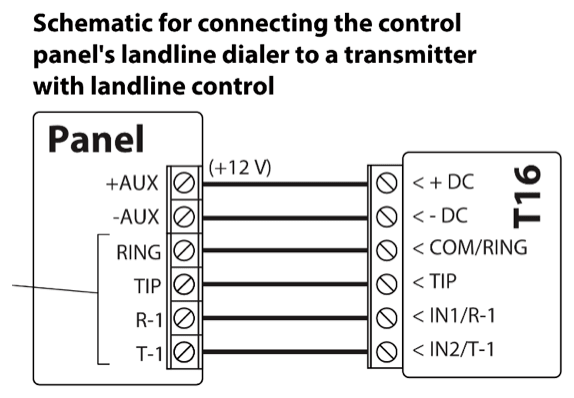
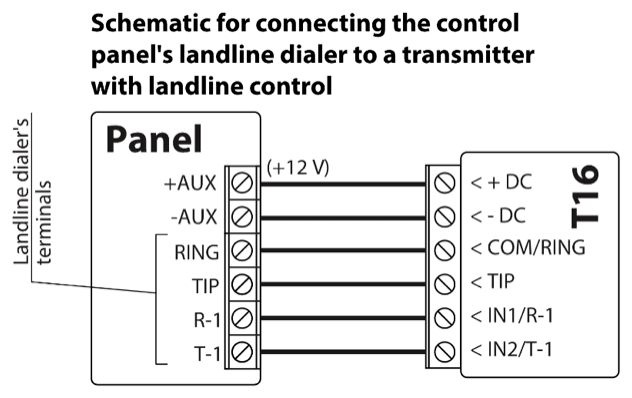
T16 (EN): cut the landline dialer pair between the two diagrams
The widest blank gap in that image is inside the second diagram, beside its rotated
'Landline dialer's terminals' label, so the label landed in the first piece. The spec now
cuts at x=570, between the two diagrams. The split script accepts such an explicit cut
and warns whenever more than one gap qualifies; the other five ambiguous cases were
checked and are right. Found by the alt-text review of #25.

Changed region(s): [[0.0, 0.2714, 0.5331, 0.995], [0.622, 0.3618, 0.9774, 0.9648], [0.0592, 0.0302, 0.8589, 0.2412]]

diff --git a/Scripts/split_wiring_diagrams.py b/Scripts/split_wiring_diagrams.py
@@ -14,7 +14,7 @@ Usage (repo root):  python3 Scripts/split_wiring_diagrams.py <spec.json> [--prev
   --preview writes the pieces to <dir> and leaves the page and its folder untouched.
 
 Spec: {"page": "...index.md", "heading_level": 4, "images": [ITEM, ...]}   (any ITEM may set its own heading_level)
-  Two side by side:   {"src": "image22.webp", "min_gap": 20,
+  Two side by side:   {"src": "image22.webp", "min_gap": 20,   ("x": 570 cuts at that column instead)
                        "left":  {"file": "wiring-dsc.webp", "heading": "DSC", "alt": "..."},
                        "right": {"file": "wiring-paradox.webp", "heading": "PARADOX", "alt": "..."}}
   Several, in rows:   {"src": "image23.webp", "rows": 2, "parts": [PIECE, ...]}   (row by row)
@@ -41,6 +41,7 @@ def gutter(img: Image.Image, min_gap: int = 20) -> int:
     w, h = g.size
     px = g.load()
     best = (0, 0)
+    gaps = []
     run_start = None
     for x in range(int(w * 0.3), int(w * 0.7) + 1):
         # Blank = (almost) no dark pixels; tolerates light compression noise in the gap.
@@ -48,11 +49,17 @@ def gutter(img: Image.Image, min_gap: int = 20) -> int:
         if blank and run_start is None:
             run_start = x
         if not blank and run_start is not None:
+            if x - run_start >= min_gap:
+                gaps.append((run_start, x))
             if x - run_start > best[1] - best[0]:
                 best = (run_start, x)
             run_start = None
     if best[1] - best[0] < min_gap:
         sys.exit("no clear gutter found")
+    if len(gaps) > 1:
+        # The widest gap can lie inside a diagram (e.g. beside a rotated label): look, or set "x".
+        print(f"  check the cut: {len(gaps)} gaps in the middle "
+              f"({', '.join(f'{a}-{b}' for a, b in gaps)}), cutting at {(best[0] + best[1]) // 2}", file=sys.stderr)
     return (best[0] + best[1]) // 2
 
 
@@ -93,7 +100,7 @@ def trim(img: Image.Image) -> Image.Image:
 def pieces(img: Image.Image, item: dict) -> list:
     """(target, image) for every diagram in a composite, row by row."""
     if "parts" not in item:
-        x = gutter(img, item.get("min_gap", 20))
+        x = item["x"] if "x" in item else gutter(img, item.get("min_gap", 20))
         return [(item["left"], trim(img.crop((0, 0, x, img.height)))),
                 (item["right"], trim(img.crop((x, 0, img.width, img.height))))]
     rows = item.get("rows", 1)

diff --git a/docs/en/alarm-communicators/t16/index.md b/docs/en/alarm-communicators/t16/index.md
@@ -254,11 +254,11 @@ The zones (inputs IN) of ***T16V,** **T16U, T16U5*** transmitters can be connect
 
 #### Without landline control
 
-<img class="wiring-diagram" alt="Wiring diagram: control panel landline dialer to T16. +AUX (+12 V) to + DC, -AUX to - DC, RING to COM/RING, TIP to TIP." src="./wiring-landline-dialer.webp" width="648" height="350" />
+<img class="wiring-diagram" alt="Wiring diagram: control panel landline dialer to T16. +AUX (+12 V) to + DC, -AUX to - DC, RING to COM/RING, TIP to TIP." src="./wiring-landline-dialer.webp" width="575" height="350" />
 
 #### With landline control
 
-<img class="wiring-diagram" alt="Wiring diagram: control panel landline dialer to T16 with landline control. +AUX (+12 V) to + DC, -AUX to - DC, RING to COM/RING, TIP to TIP, plus panel R-1 to T16 IN1/R-1 and T-1 to IN2/T-1." src="./wiring-landline-dialer-control.webp" width="574" height="398" />
+<img class="wiring-diagram" alt="Wiring diagram: control panel landline dialer to T16 with landline control. +AUX (+12 V) to + DC, -AUX to - DC, RING to COM/RING, TIP to TIP, plus panel R-1 to T16 IN1/R-1 and T-1 to IN2/T-1." src="./wiring-landline-dialer-control.webp" width="632" height="398" />
 
 !!! warning "Important"
     T16 should not be connected to a working telecom landline.
